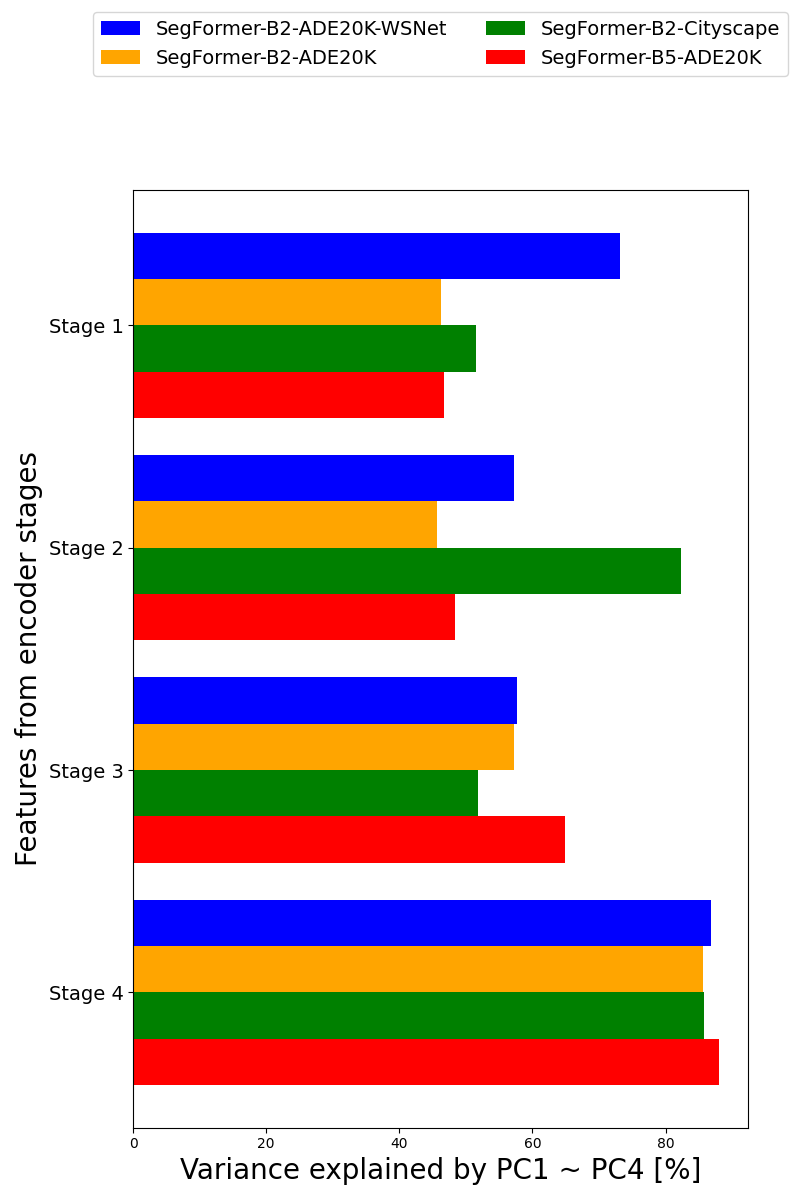
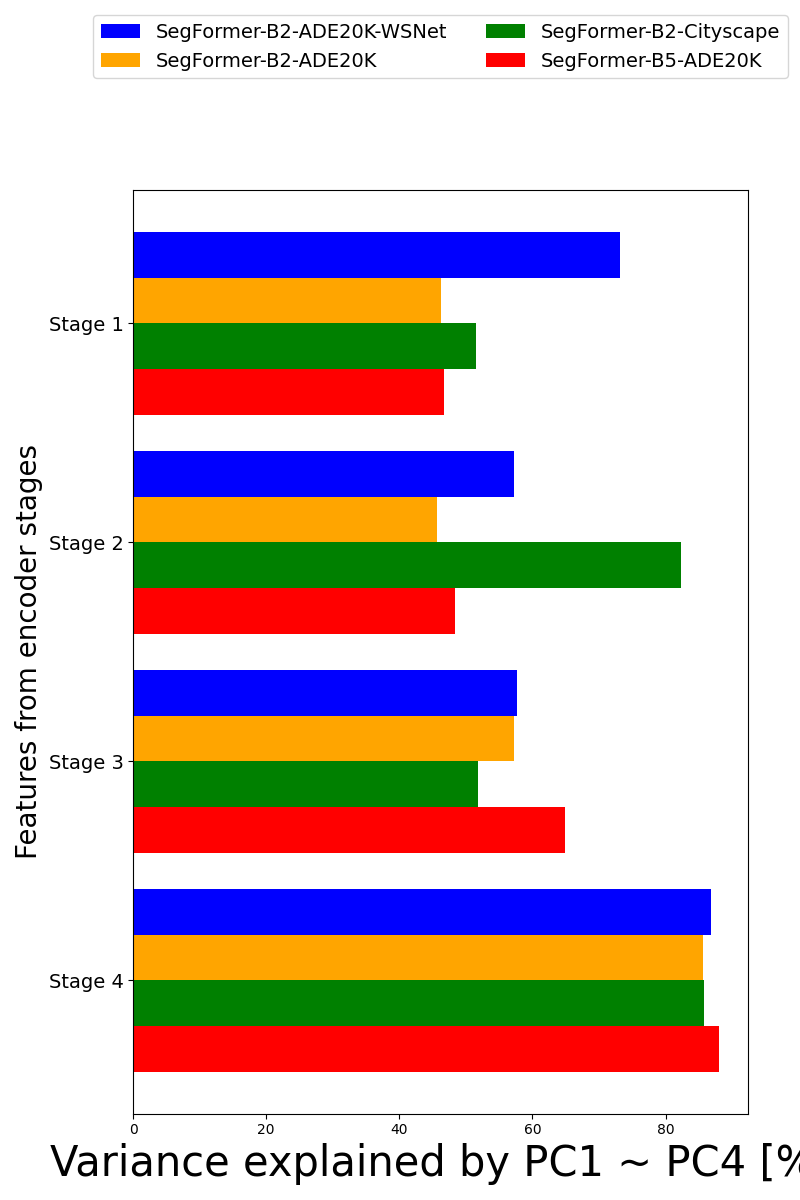
fix: FLOPs graph

diff --git a/check_pca_features_v2_multi.py b/check_pca_features_v2_multi.py
@@ -333,7 +333,7 @@ def plot_histogram_0(models, input_image, n_components):
     ax.set_yticklabels([f'Stage {i}' for i in range(1, 5)], fontsize=14)
     ax.set(ylabel='Features from encoder stages', xlabel='Variance explained by PC1 ~ PC4 [%]')
     ax.set_ylabel(ax.get_ylabel(), fontsize=20)
-    ax.set_xlabel(ax.get_xlabel(), fontsize=20)
+    ax.set_xlabel(ax.get_xlabel(), fontsize=30)
 
     ax.set_ylim(ax.get_ylim()[::-1])  # Reverse the y-axis limits
 
